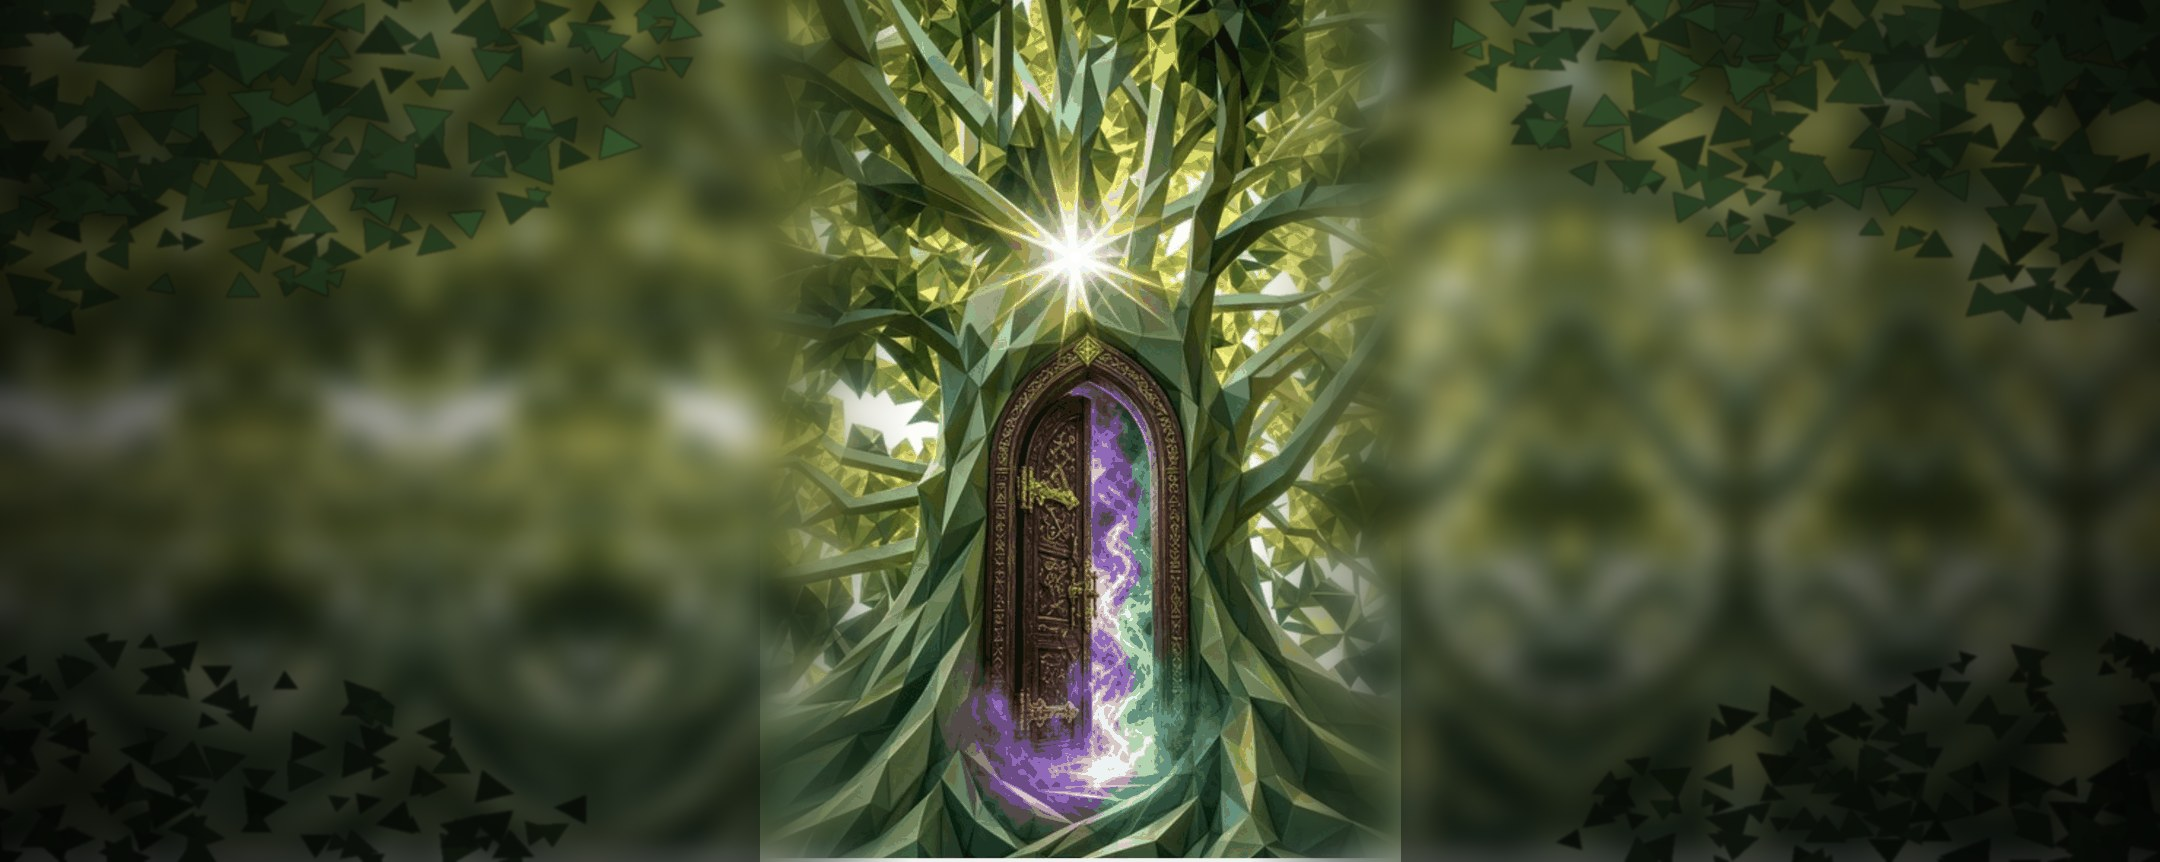
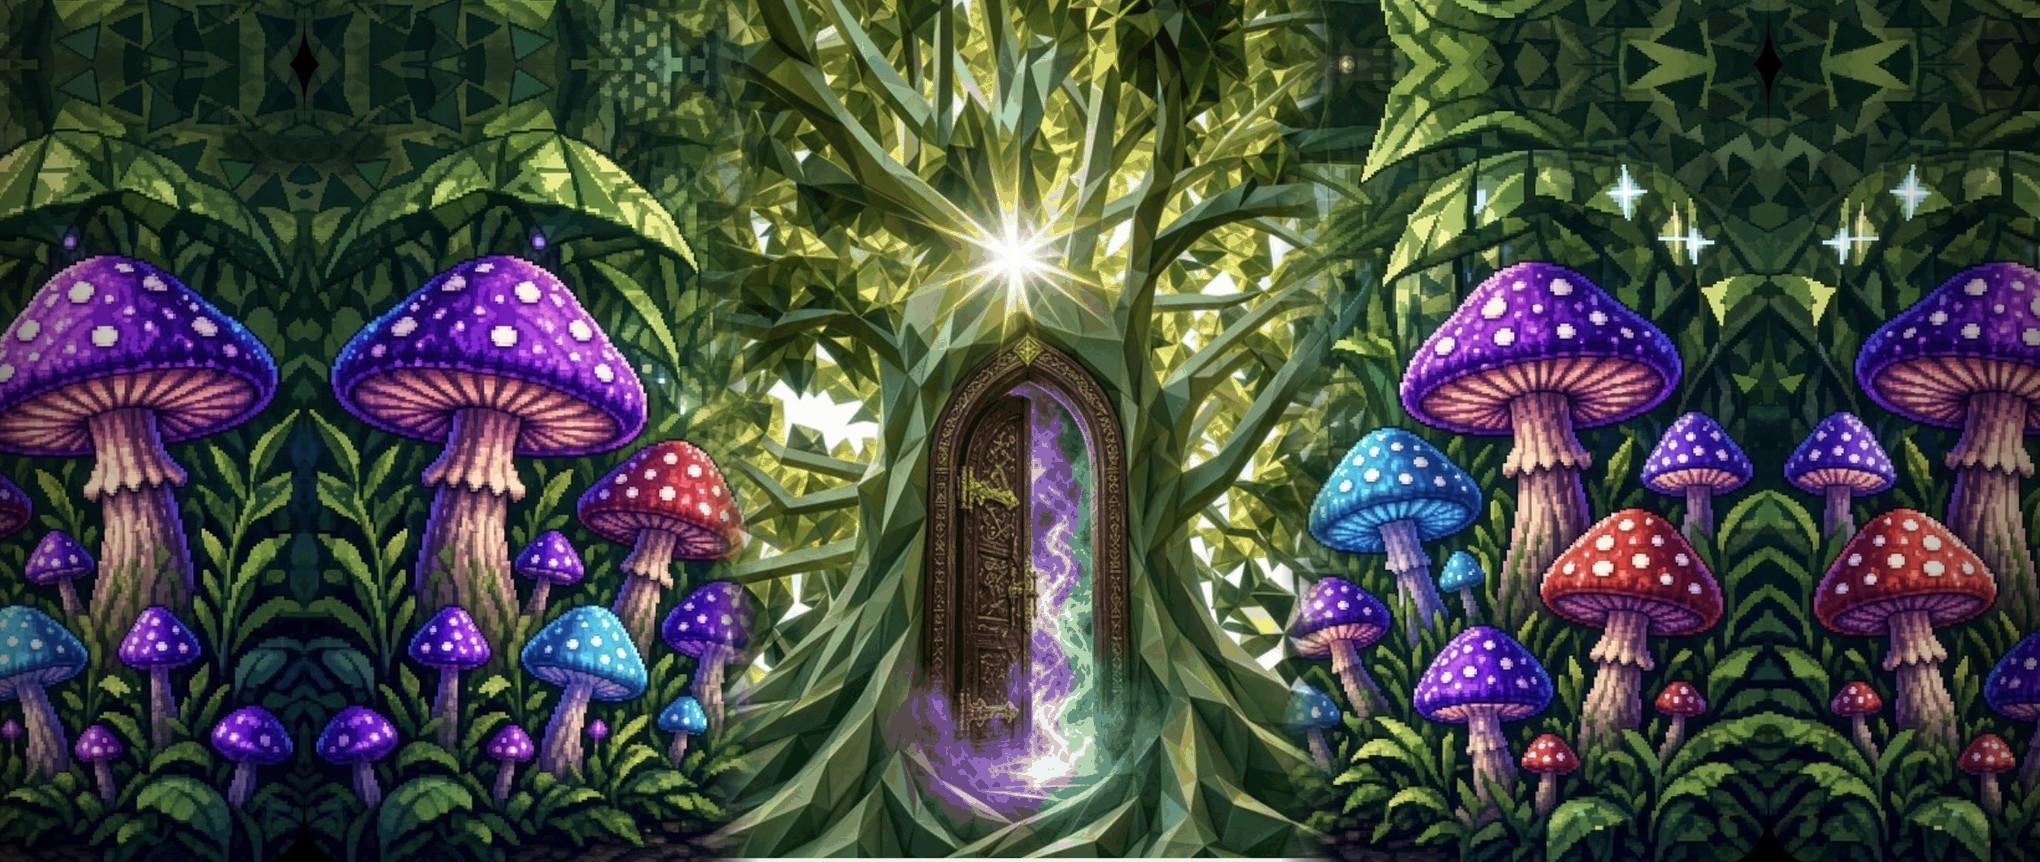
Door: the mushroom forest either side of the tree on wide screens
Claude-Session: https://claude.ai/code/session_01DGmyhhgdpe7iuFuzKzHk3m

diff --git a/gate.js b/gate.js
@@ -190,7 +190,7 @@
     wi.onload = () => { wood = wi; };
     wi.src = "tree-wide.jpg";
   }
-  const WOOD_FLANK = 760 / 640, WOOD_W = 2160 / 640, WOOD_BLEND = 150 / 640;
+  const WOOD_FLANK = 700 / 640, WOOD_W = 2040 / 640, WOOD_BLEND = 60 / 640;   // printed by tools/widewood.py
 
   const gapImg = new Image();
   let gapReady = false;

diff --git a/tools/widewood.py b/tools/widewood.py
@@ -3,134 +3,57 @@
     python3 tools/widewood.py
 
 The painting is tall, made for a phone. On a wide screen the tree is sized
-to the height and these flanks stand either side of it, so the window is
-filled with forest rather than dark.
+to the height and the forest stands either side of it: great spotted
+mushrooms in violet, red and blue, big leaves, ferns and sparks.
 
-An interpretation in three depths, as if you stood in the wood:
-
-  far    the painting's own canopy, carried outward and thrown out of
-         focus, so the tree is the one sharp thing in the frame
-  light  the sun in the canopy, its shafts spilling across the flanks
-  near   a few dark faceted boughs close to you, arching in from the
-         window's edges and framing the tree
-
-Everything darkens toward the edges and the floor so the eye still goes
-to the doorway. The flanks are faded into the painting's outer edge, and
-gate.js draws the real, swaying tree over the middle.
+The forest is art/forest-wide-src.jpg, a wide picture of the whole scene.
+Its own middle (where it shows the doorway) is replaced by the real
+painting, lined up on the sun in the canopy, so gate.js can draw the
+swaying tree over it and only the forest shows either side. Beyond the
+picture's own edges it is carried on by reflection, for very wide screens.
 """
-import os, math
+import os
 import numpy as np
-from PIL import Image, ImageDraw, ImageFilter
+from PIL import Image
 
 ROOT = os.path.dirname(os.path.dirname(os.path.abspath(__file__)))
-FLANK = 760
-BLEND = 150
-BAND = 170
+FLANK = 700                         # composite px either side of the tree
+BLEND = 60                          # px of the painting's edge the forest fades into
+SRC_SUN_X = 572                     # where the sun sits in the source picture, px
+SCREEN = 1.08                       # gate.js sizes the tree to 1.08 x the window's height
 
 tree = Image.open(os.path.join(ROOT, "tree.png")).convert("RGB")
 TW, TH = tree.size
+src = Image.open(os.path.join(ROOT, "art", "forest-wide-src.jpg")).convert("RGB")
+
+# the source shows one window; the tree is drawn 1.08 x the window, so the
+# window is TH / 1.08 tall in the tree's pixels, sitting low in it
+sh = round(TH / SCREEN)
+s = sh / src.height
+sw = round(src.width * s)
+pic = np.asarray(src.resize((sw, sh), Image.LANCZOS)).astype(float)
+
 W = FLANK * 2 + TW
-SUN = (FLANK + 0.492 * TW, 0.298 * TH)
-rng = np.random.default_rng(1111)
+x0 = round(FLANK + 0.492 * TW - SRC_SUN_X * s)     # line the sun up with the painting's
+y0 = TH - sh
+left, right, top = x0, W - (x0 + sw), y0
+pic = np.pad(pic, ((top, 0), (max(0, left), max(0, right)), (0, 0)), mode="reflect")
+if left < 0: pic = pic[:, -left:]
+a = pic[:, :W].copy()
+
+# the painting itself in the middle, the forest faded into its edge
 t = np.asarray(tree).astype(float)
-
-# ---------- far: the canopy carried outward, out of focus ----------
-def carry(edge):
-    """a band of the tree's edge, folded outward until it fills a flank"""
-    b = edge
-    tile = np.concatenate([b[:, ::-1], b, b[:, ::-1], b, b[:, ::-1], b], axis=1)
-    return tile[:, :FLANK]
-
-far = np.zeros((TH, W, 3))
-far[:, :FLANK] = carry(t[:, :BAND])[:, ::-1]
-far[:, FLANK + TW:] = carry(t[:, TW - BAND:][:, ::-1])
-far[:, FLANK:FLANK + TW] = t
-farimg = Image.fromarray(far.clip(0, 255).astype(np.uint8)).filter(ImageFilter.GaussianBlur(14))
-a = np.asarray(farimg).astype(float) * 0.78
-
-# ---------- light: shafts from the sun ----------
-yy, xx = np.mgrid[0:TH, 0:W]
-ang = np.arctan2(yy - SUN[1], xx - SUN[0])
-dist = np.hypot((xx - SUN[0]) / W, (yy - SUN[1]) / TH)
-shafts = np.zeros((TH, W))
-for k in range(9):
-    a0 = rng.uniform(-math.pi, math.pi)
-    width = rng.uniform(.035, .08)
-    shafts += np.exp(-((np.angle(np.exp(1j * (ang - a0)))) / width) ** 2) * rng.uniform(.4, 1)
-glow = np.exp(-dist * 3.2)
-lightmap = (glow * .55 + shafts * glow * .45)[..., None]
-a = a + lightmap * np.array([255, 236, 170]) * .32
-
-# ---------- near: dark faceted boughs framing the tree ----------
-near = Image.new("RGBA", (W, TH), (0, 0, 0, 0))
-d = ImageDraw.Draw(near)
-
-def bough(pts, thick, shade):
-    """a tapering bough along a curve, cut into flat facets: lit above, dark below"""
-    for k in range(len(pts) - 1):
-        (ax, ay), (bx, by) = pts[k], pts[k + 1]
-        u0, u1 = k / (len(pts) - 1), (k + 1) / (len(pts) - 1)
-        ta, tb = thick * (1 - u0 * .82), thick * (1 - u1 * .82)
-        nx, ny = -(by - ay), (bx - ax); n = math.hypot(nx, ny) or 1; nx /= n; ny /= n
-        if ny > 0: nx, ny = -nx, -ny
-        mx, my = (ax + bx) / 2, (ay + by) / 2
-        lit = max(0, 1 - math.hypot((mx - SUN[0]) / W, (my - SUN[1]) / TH) * 1.6)
-        hi = tuple(int(c * shade * (1 + lit * .9)) for c in (44, 66, 50))
-        lo = tuple(int(c * shade) for c in (16, 26, 19))
-        d.polygon([(ax + nx * ta, ay + ny * ta), (bx + nx * tb, by + ny * tb), (bx, by), (ax, ay)], fill=hi + (255,))
-        d.polygon([(ax, ay), (bx, by), (bx - nx * tb, by - ny * tb), (ax - nx * ta, ay - ny * ta)], fill=lo + (255,))
-    # leaves at the tip: a spray of shards
-    ex, ey = pts[-1]
-    for _ in range(22):
-        r = rng.uniform(10, 70); th = rng.uniform(0, 2 * math.pi)
-        cx, cy = ex + math.cos(th) * r, ey + math.sin(th) * r * .7
-        s = rng.uniform(8, 22)
-        tri = [(cx + math.cos(th + q) * s, cy + math.sin(th + q) * s) for q in (0, 2.3, 4.1)]
-        g = rng.uniform(.6, 1.25)
-        d.polygon(tri, fill=(int(38 * g * shade), int(62 * g * shade), int(30 * g * shade), 255))
-
-def curve(p0, p1, p2, n=14):
-    return [((1 - u) ** 2 * p0[0] + 2 * (1 - u) * u * p1[0] + u * u * p2[0],
-             (1 - u) ** 2 * p0[1] + 2 * (1 - u) * u * p1[1] + u * u * p2[1]) for u in np.linspace(0, 1, n)]
-
-# the canopy close overhead: dark shards hanging into the top corners,
-# thinning as they reach toward the tree, and ferns of the same at the floor
-def shards(cx, cy, rx, ry, count, size, shade):
-    for _ in range(count):
-        u = rng.random() ** .6
-        th = rng.uniform(0, 2 * math.pi)
-        x, y = cx + math.cos(th) * rx * u, cy + math.sin(th) * ry * u
-        s_ = size * rng.uniform(.5, 1.3) * (1.2 - u * .5)
-        rot = rng.uniform(0, 2 * math.pi)
-        tri = [(x + math.cos(rot + q) * s_, y + math.sin(rot + q) * s_ * .8) for q in (0, 2.2, 4.2)]
-        lit = max(0, 1 - math.hypot((x - SUN[0]) / W, (y - SUN[1]) / TH) * 1.7)
-        g = rng.uniform(.65, 1.2) * (1 + lit * 1.2)
-        d.polygon(tri, fill=(int(30 * g * shade), int(50 * g * shade), int(26 * g * shade), 255))
-
-for side in (-1, 1):
-    edge = 0 if side < 0 else W
-    shards(edge, -40, FLANK * .95, TH * .42, 900, 30, .9)          # overhead
-    shards(edge, TH + 30, FLANK * .8, TH * .3, 500, 26, .7)        # the floor
-
-near = near.filter(ImageFilter.GaussianBlur(1.2))
-n = np.asarray(near).astype(float)
-alpha = n[..., 3:4] / 255
-a = a * (1 - alpha * .92) + n[..., :3] * alpha * .92
-
-# ---------- the painting itself in the middle, faded into the flanks ----------
 ramp = np.ones(TW)
-ramp[:BLEND] = np.linspace(0, 1, BLEND) ** 1.3
-ramp[-BLEND:] = np.linspace(1, 0, BLEND) ** 1.3
+ramp[:BLEND] = np.linspace(0, 1, BLEND) ** 1.2
+ramp[-BLEND:] = np.linspace(1, 0, BLEND) ** 1.2
 a[:, FLANK:FLANK + TW] = a[:, FLANK:FLANK + TW] * (1 - ramp[None, :, None]) + t * ramp[None, :, None]
 
-# ---------- darker toward the window's edges and the floor ----------
+# a little darker at the very edges, where the reflection carries on
 xs = np.arange(W)
-dd = np.clip(np.where(xs < FLANK, (FLANK - xs) / FLANK, (xs - FLANK - TW) / FLANK), 0, 1)
-shade = 1 - .6 * dd ** 1.4
-floor = 1 - .45 * np.clip((np.arange(TH) / TH - .6) / .4, 0, 1)
-mask = (dd > 0).astype(float)
-a *= (shade[None, :, None]) * (floor[:, None, None] * mask[None, :, None] + (1 - mask[None, :, None]))
+edge = np.clip(1 - np.minimum(xs, W - 1 - xs) / 260, 0, 1)
+a *= (1 - .45 * edge ** 1.5)[None, :, None]
 
 out = Image.fromarray(a.clip(0, 255).astype(np.uint8))
-out.save(os.path.join(ROOT, "tree-wide.jpg"), quality=88)
-print("tree-wide.jpg", out.size, os.path.getsize(os.path.join(ROOT, "tree-wide.jpg")) // 1024, "KB")
+out.save(os.path.join(ROOT, "tree-wide.jpg"), quality=90)
+print("tree-wide.jpg", out.size, os.path.getsize(os.path.join(ROOT, "tree-wide.jpg")) // 1024, "KB",
+      "| gate.js: WOOD_FLANK", FLANK, "/ 640, WOOD_W", W, "/ 640, WOOD_BLEND", BLEND, "/ 640")
